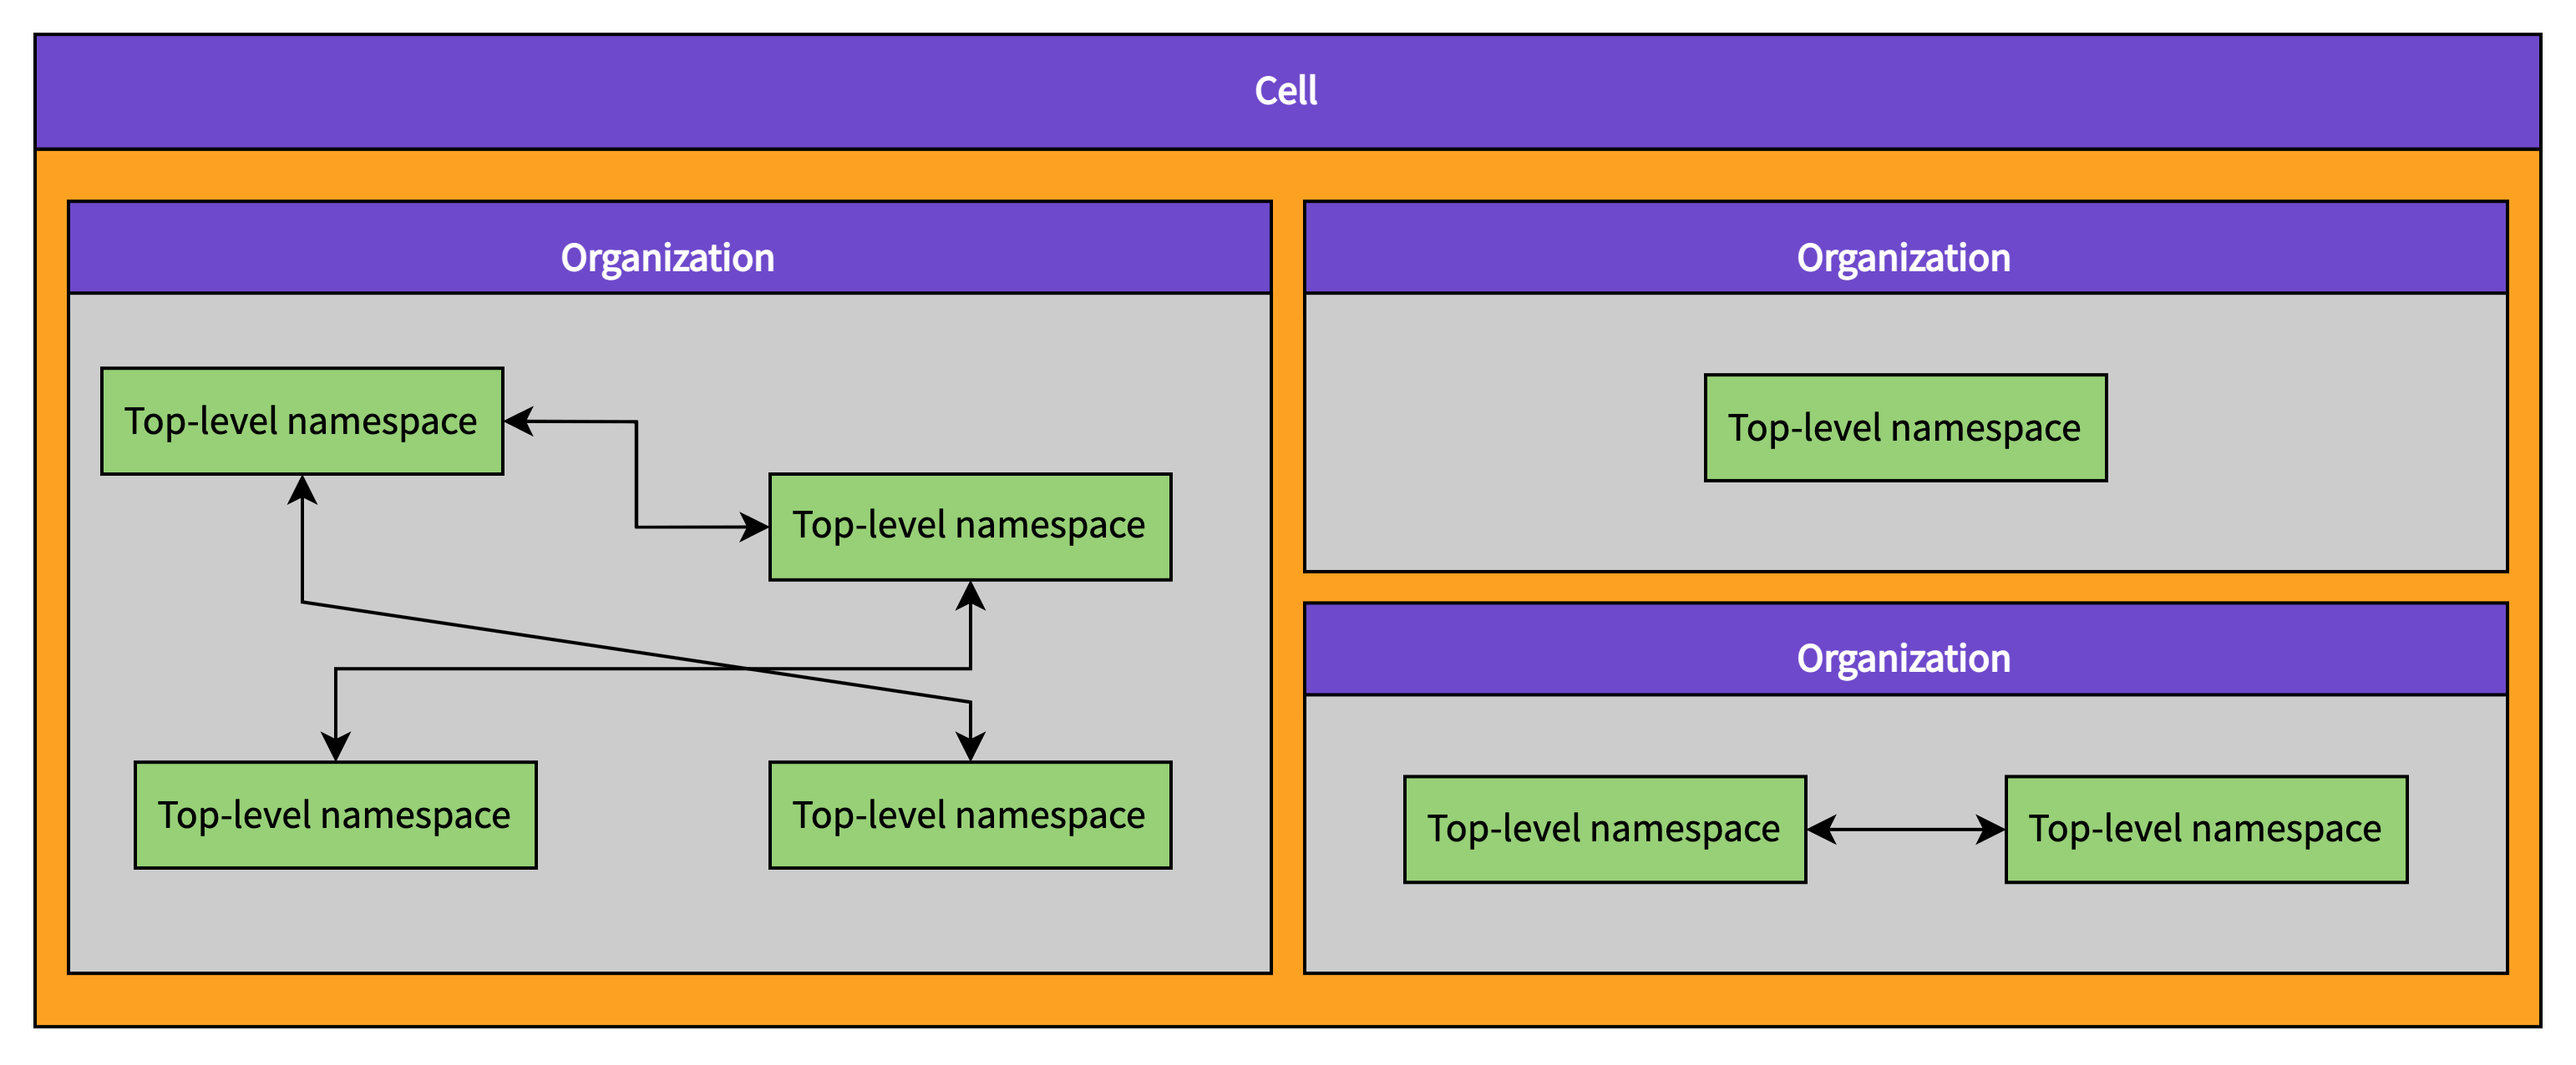
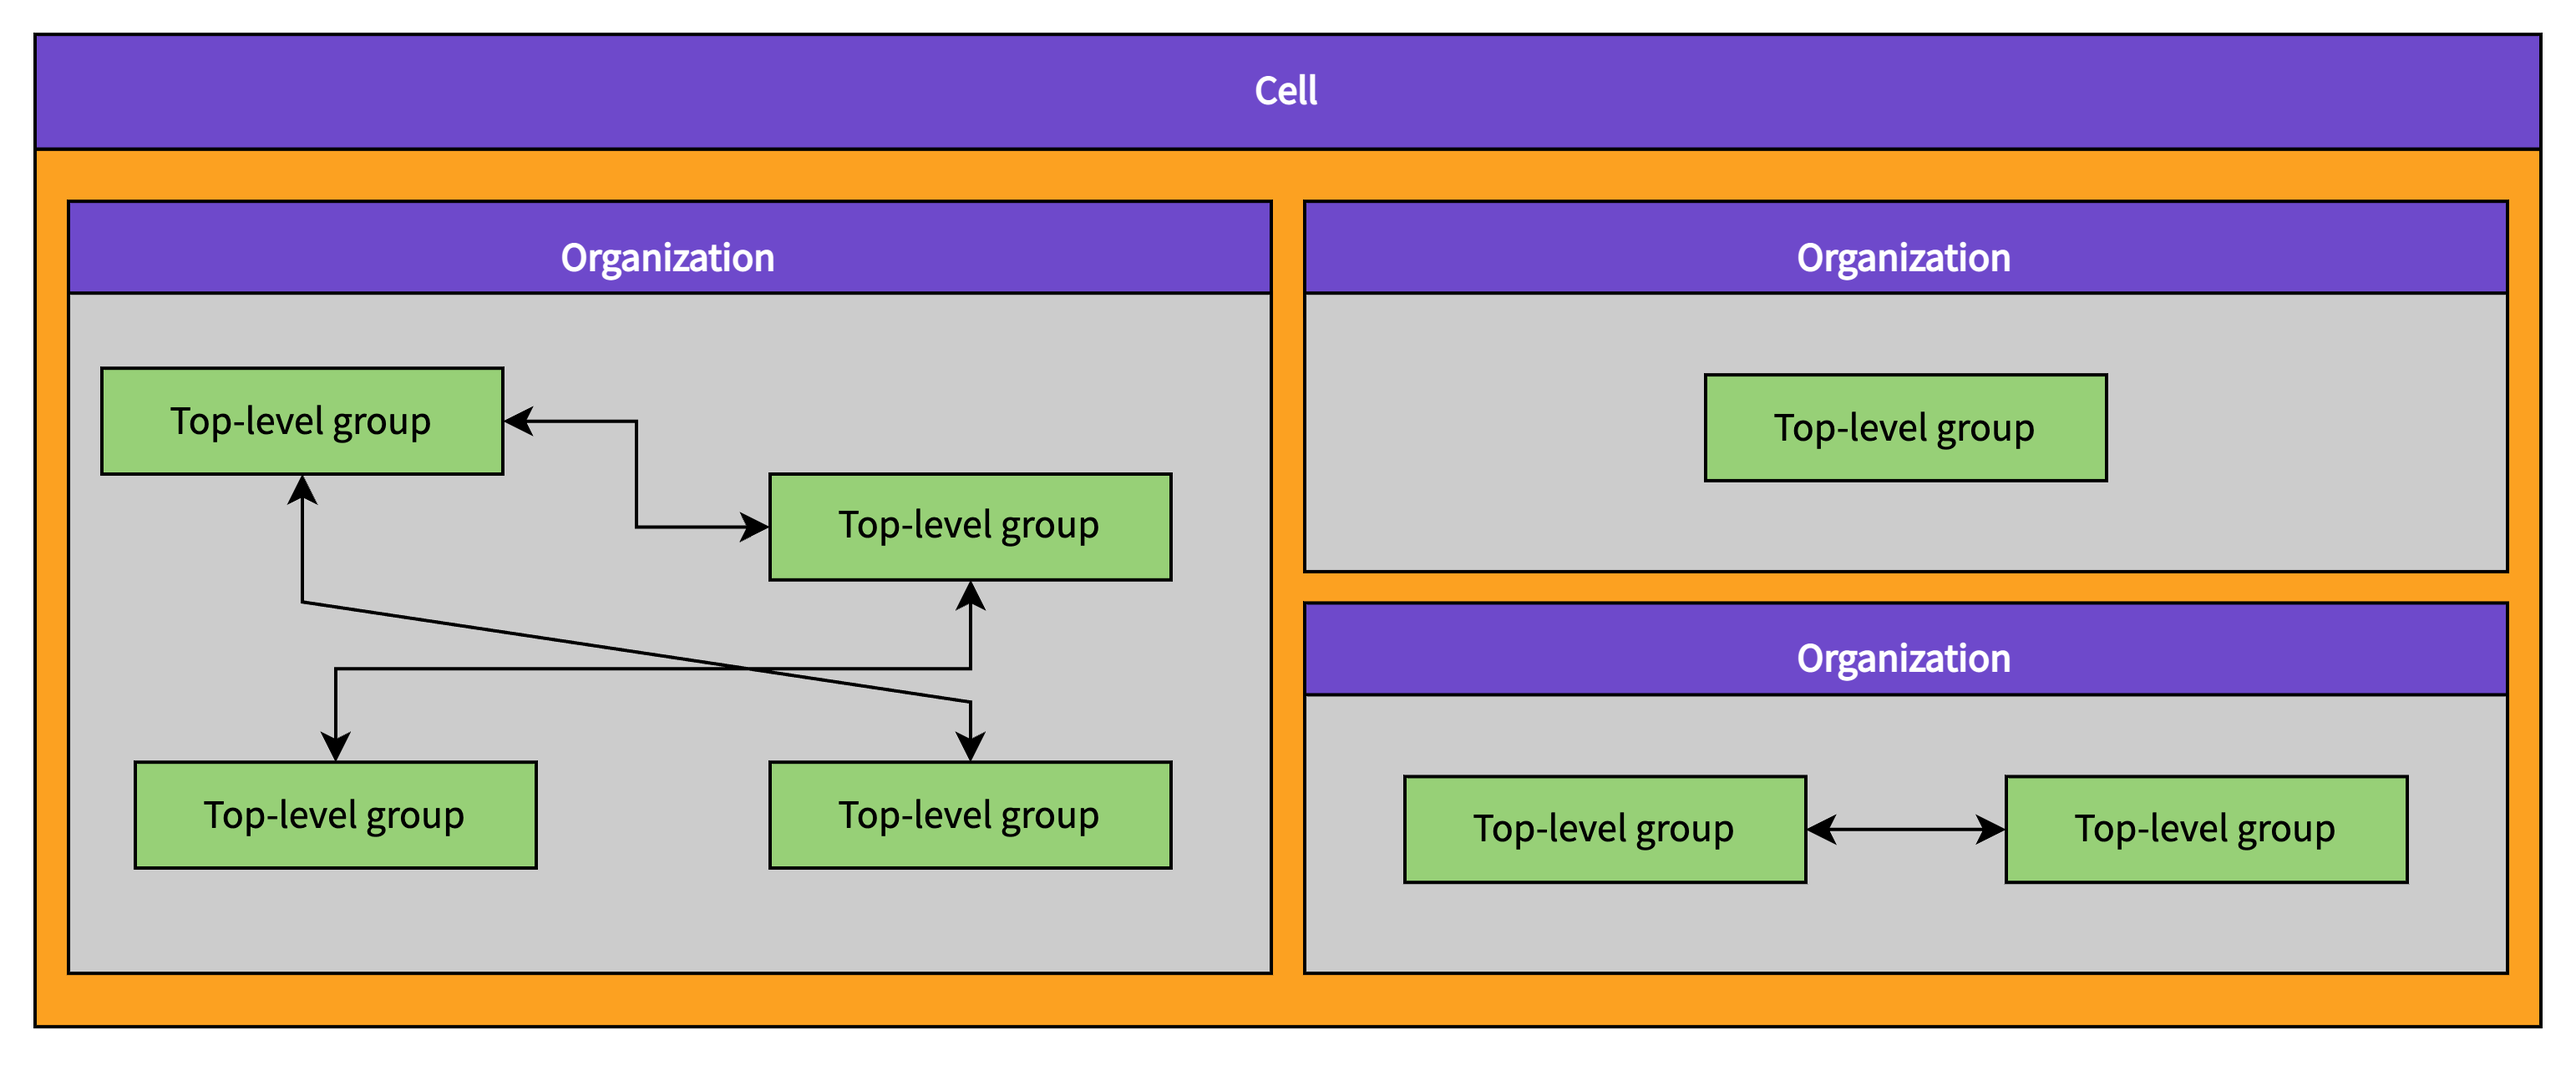
Cells: Rename `top-level namespace` to `top-level group`
This updates to latest terminology. Each organization will have many top-level groups.
Each group might have groups or projects.

Cleanup images as well.

diff --git a/doc/architecture/blueprints/cells/glossary.md b/doc/architecture/blueprints/cells/glossary.md
@@ -12,14 +12,14 @@ We use the following terms to describe components and properties of the Cells ar
 
 > Pod was renamed to Cell in <https://gitlab.com/gitlab-com/www-gitlab-com/-/merge_requests/121163>
 
-A Cell is a set of infrastructure components that contains multiple top-level namespaces that belong to different organizations. The components include both datastores (PostgreSQL, Redis etc.) and stateless services (web etc.). The infrastructure components provided within a Cell are shared among organizations and their top-level namespaces but not shared with other Cells. This isolation of infrastructure components means that Cells are independent from each other.
+A Cell is a set of infrastructure components that contains multiple top-level groups that belong to different organizations. The components include both datastores (PostgreSQL, Redis etc.) and stateless services (web etc.). The infrastructure components provided within a Cell are shared among organizations and their top-level groups but not shared with other Cells. This isolation of infrastructure components means that Cells are independent from each other.
 
 <img src="images/term-cell.png" height="200">
 
 ### Cell properties
 
 - Each cell is independent from the others
-- Infrastructure components are shared by organizations and their top-level namespaces within a Cell
+- Infrastructure components are shared by organizations and their top-level groups within a Cell
 - More Cells can be provisioned to provide horizontal scalability
 - A failing Cell does not lead to failure of other Cells
 - Noisy neighbor effects are limited to within a Cell
@@ -60,45 +60,45 @@ Organizations work under the following assumptions:
 
 ### Organization properties
 
-- Top-level namespaces belong to organizations
-- Organizations are isolated from each other by default meaning that cross-namespace features will only work for namespaces that exist within a single organization
+- Top-level groups belong to organizations
+- Organizations are isolated from each other by default meaning that cross-group features will only work for group that exist within a single organization
 - User namespaces must not belong to an organization
 
 Discouraged synonyms: Billable entities, customers
 
-## Top-Level namespace
+## Top-Level group
 
-Top-level namespace is the name given to the top most group of all other groups. Groups and projects are nested underneath the top-level namespace.
+Top-level group is the name given to the top most group of all other groups. Groups and projects are nested underneath the top-level group.
 
 Example:
 
 `https://gitlab.com/gitlab-org/gitlab/`:
 
-- `gitlab-org` is a `top-level namespace`; the root for all groups and projects of an organization
+- `gitlab-org` is a `top-level group`; the root for all groups and projects of an organization
 - `gitlab` is a `project`; a project of the organization.
 
-The top-level namespace has served as the defacto Organization entity. With the creation of Organization, top-level namespaces will be [nested underneath Organizations](https://gitlab.com/gitlab-org/gitlab/-/issues/394796).
+The top-level group has served as the defacto Organization entity. With the creation of Organization, top-level groups will be [nested underneath Organizations](https://gitlab.com/gitlab-org/gitlab/-/issues/394796).
 
-Over time there won't be a distinction between a top level namespace and a group. All features that make Top-level namespaces different from groups will move to Organization.
+Over time there won't be a distinction between a top-level group and a group. All features that make Top-level groups different from groups will move to Organization.
 
 Discouraged synonyms: Root-level namespace
 
-![Term Top-level Namespace](images/term-top-level-namespace.png)
+![Term Top-level Group](images/term-top-level-group.png)
 
-### Top-level namespace properties
+### Top-level group properties
 
-- Top-level namespaces belonging to an organization are located on the same Cell
-- Top-level namespaces can interact with other top-level namespaces that belong to the same organization
+- Top-level groups belonging to an organization are located on the same Cell
+- Top-level groups can interact with other top-level groups that belong to the same organization
 
 ## Users
 
-Users are available globally and not restricted to a single Cell. Users belong to a single organization, but can participate in many organizations through group and project membership with varying permissions. Inside organizations, users can create multiple top-level namespaces. User activity is not limited to a single organization but their contributions (for example TODOs) are only aggregated within an organization. This avoids the need for aggregating across cells.
+Users are available globally and not restricted to a single Cell. Users belong to a single organization, but can participate in many organizations through group and project membership with varying permissions. Inside organizations, users can create multiple top-level groups. User activity is not limited to a single organization but their contributions (for example TODOs) are only aggregated within an organization. This avoids the need for aggregating across cells.
 
 ### User properties
 
 - Users are shared globally across all Cells
-- Users can create multiple top-level namespaces
-- Users can be a member of multiple top-level namespaces
+- Users can create multiple top-level groups
+- Users can be a member of multiple top-level groups
 - Users belong to one organization. See [!395736](https://gitlab.com/gitlab-org/gitlab/-/issues/395736)
 - Users can be members of groups and projects in different organizations
 - Users can administer organizations

diff --git a/doc/architecture/blueprints/cells/goals.md b/doc/architecture/blueprints/cells/goals.md
@@ -14,7 +14,7 @@ Cells provide a horizontally scalable solution because additional Cells can be c
 
 ## Increased availability
 
-A major challenge for shared-infrastructure architectures is a lack of isolation between top-level namespaces. This can lead to noisy neighbor effects. A organization's behavior inside a top-level namespace can impact all other organizations. This is highly undesirable. Cells provide isolation at the cell level. A group of organizations is fully isolated from other organizations located on a different Cell. This minimizes noisy neighbor effects while still benefiting from the cost-efficiency of shared infrastructure.
+A major challenge for shared-infrastructure architectures is a lack of isolation between top-level groups. This can lead to noisy neighbor effects. A organization's behavior inside a top-level group can impact all other organizations. This is highly undesirable. Cells provide isolation at the cell level. A group of organizations is fully isolated from other organizations located on a different Cell. This minimizes noisy neighbor effects while still benefiting from the cost-efficiency of shared infrastructure.
 
 Additionally, Cells provide a way to implement disaster recovery capabilities. Entire Cells may be replicated to read-only standbys with automatic failover capabilities.
 
@@ -35,7 +35,7 @@ Larger organizations may benefit substantially from [GitLab Dedicated](../../../
 At this moment, GitLab.com has "social-network"-like capabilities that may not fit well into a more isolated organization model. Removing those features, however, possesses some challenges:
 
 1. How will existing `gitlab-org` contributors contribute to the namespace??
-1. How do we move existing top-level namespaces into the new model (effectively breaking their social features)?
+1. How do we move existing top-level groups into the new model (effectively breaking their social features)?
 
 We should evaluate if the SMB and mid market segment is interested in these features, or if not having them is acceptable in most cases.
 

diff --git a/doc/architecture/blueprints/cells/impact.md b/doc/architecture/blueprints/cells/impact.md
@@ -39,11 +39,11 @@ The [organization roadmap outlines](https://gitlab.com/gitlab-org/gitlab/-/issue
 
 ## Impact on Fulfillment
 
-We synced with Fulfillment ([recording](https://youtu.be/FkQF3uF7vTY)) to discuss how Cells would impact them. Fulfillment is supportive of an entity above top-level namespaces. Their perspective is outline in [!5639](https://gitlab.com/gitlab-org/customers-gitlab-com/-/merge_requests/5639/diffs).
+We synced with Fulfillment ([recording](https://youtu.be/FkQF3uF7vTY)) to discuss how Cells would impact them. Fulfillment is supportive of an entity above top-level groups. Their perspective is outline in [!5639](https://gitlab.com/gitlab-org/customers-gitlab-com/-/merge_requests/5639/diffs).
 
 ### Goals of Fulfillment
 
-- Fulfillment has a longstanding plan to move billing from the top-level namespace to a level above. This would mean that a license applies for an organization and all its top-level namespaces.
+- Fulfillment has a longstanding plan to move billing from the top-level group to a level above. This would mean that a license applies for an organization and all its top-level groups.
 - Fulfillment uses Zuora for billing and would like to have a 1-to-1 relationship between an organization and their Zuora entity called BillingAccount. They want to move away from tying a license to a single user.
 - If a customer needs multiple organizations, the corresponding BillingAccounts can be rolled up into a consolidated billing account (similar to [AWS consolidated billing](https://docs.aws.amazon.com/awsaccountbilling/latest/aboutv2/consolidated-billing.html))
 - Ideally, a self-managed instance has a single Organization by default, which should be enough for most customers.

diff --git a/doc/architecture/blueprints/cells/index.md b/doc/architecture/blueprints/cells/index.md
@@ -35,7 +35,7 @@ See [Cells: Cross-section impact](impact.md).
 We can't ship the entire Cells architecture in one go - it is too large. Instead, we are adopting an iteration plan that provides value along the way.
 
 1. Introduce organizations
-1. Migrate existing top-level namespaces to organizations
+1. Migrate existing top-level groups to organizations
 1. Create new organizations on `cell`
 1. Migrate existing organizations from `cell` to `cell`
 1. Add additional Cell capabilities (DR, Regions)
@@ -82,6 +82,7 @@ This is the list of known affected features with the proposed solutions.
 ## Links
 
 - [Internal Pods presentation](https://docs.google.com/presentation/d/1x1uIiN8FR9fhL7pzFh9juHOVcSxEY7d2_q4uiKKGD44/edit#slide=id.ge7acbdc97a_0_155)
+- [Internal link to all diagrams](https://drive.google.com/file/d/13NHzbTrmhUM-z_Bf0RjatUEGw5jWHSLt/view?usp=sharing)
 - [Cells Epic](https://gitlab.com/groups/gitlab-org/-/epics/7582)
 - [Database Group investigation](https://about.gitlab.com/handbook/engineering/development/enablement/data_stores/database/doc/root-namespace-sharding.html)
 - [Shopify Pods architecture](https://shopify.engineering/a-pods-architecture-to-allow-shopify-to-scale)
